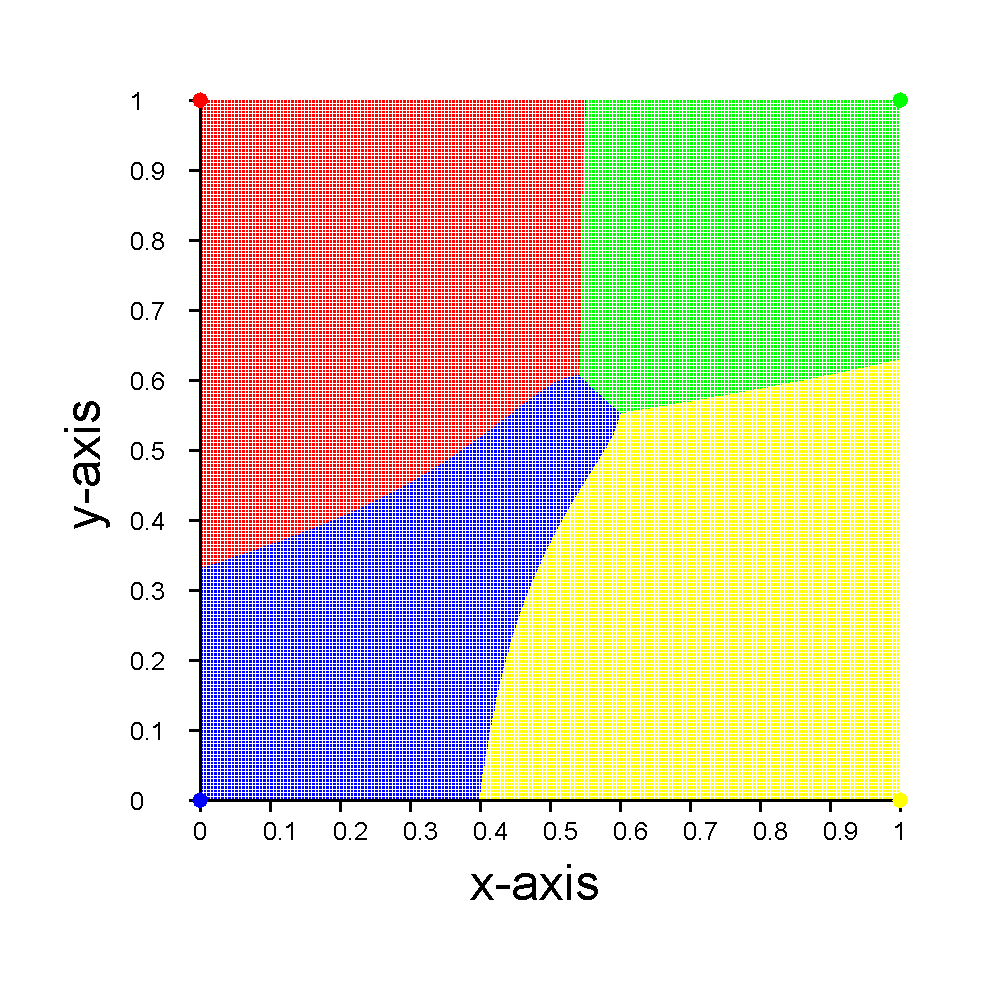
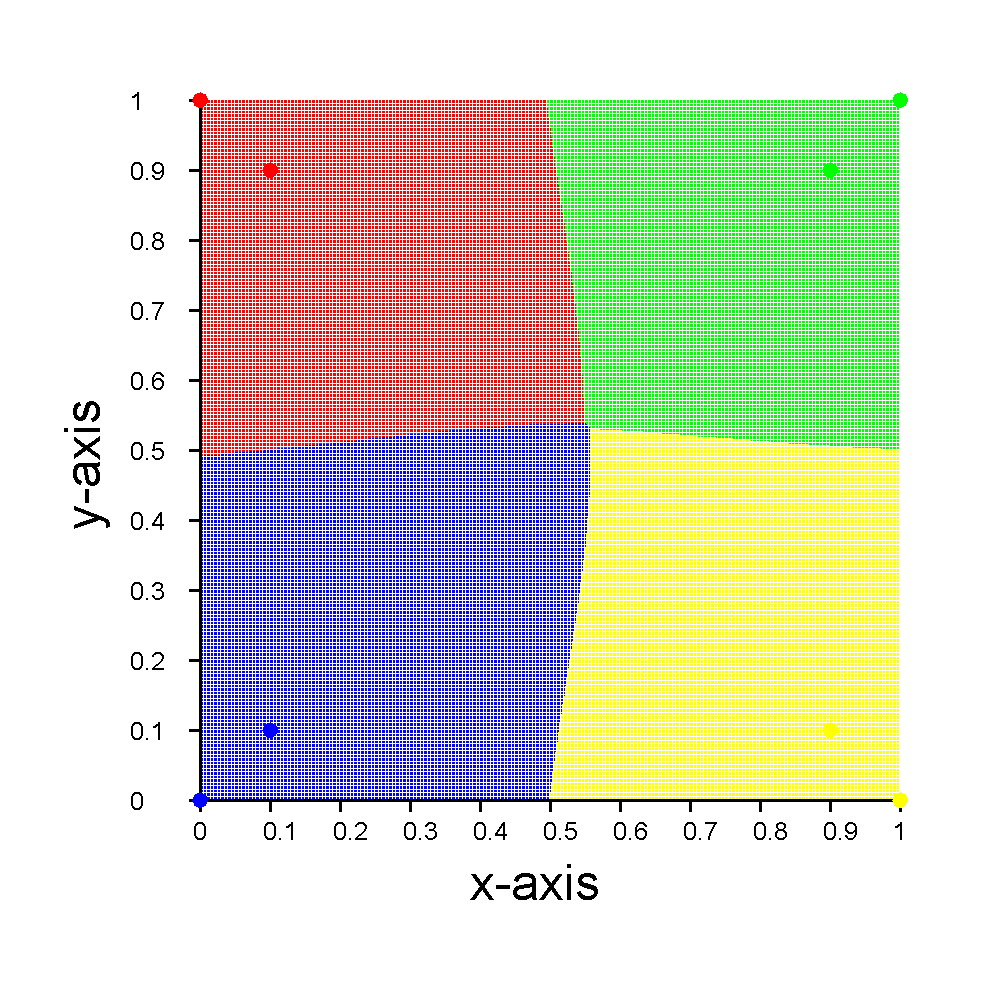
Updated image

diff --git a/src/test/Test1.java b/src/test/Test1.java
@@ -47,7 +47,7 @@ public class Test1{
 		//UtilMethods.printArray(result);
 		//System.out.println();
 		
-		net.fit(x, y, 1000, 4, Loss.crossEntropyP, new SGDOptimizer(0.1), 0, Loss.crossEntropy, true);
+		net.fit(x, y, 1000, 4, Loss.crossEntropyP, new SGDOptimizer(0.1), 0.01, Loss.crossEntropy, true);
 		
 		double[] xData = new double[x.length];
 		double[] yData = new double[x.length];
